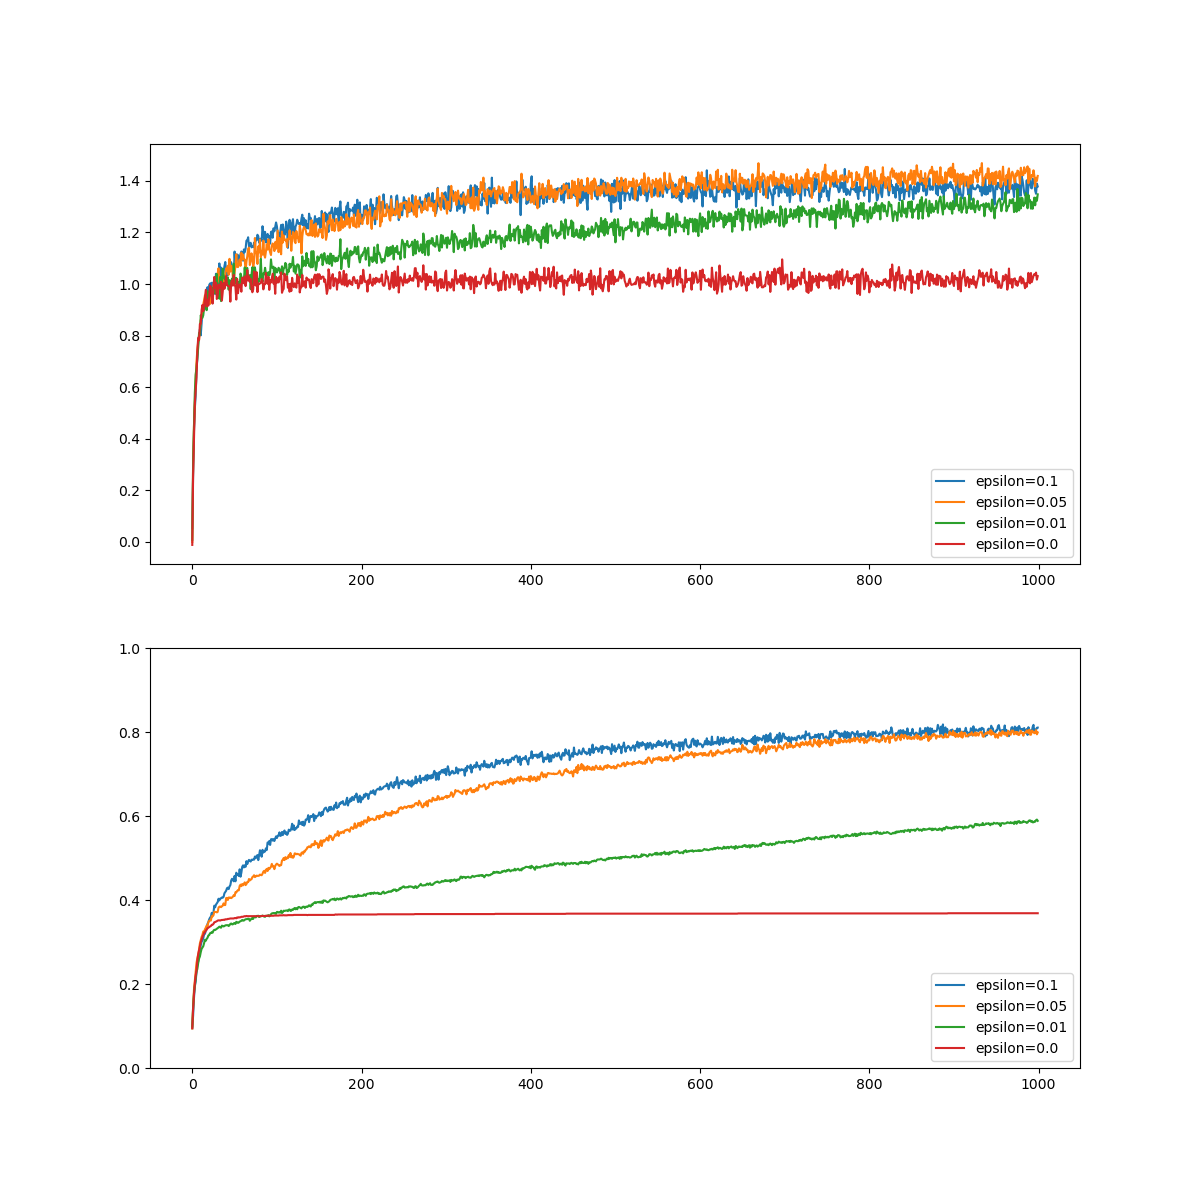
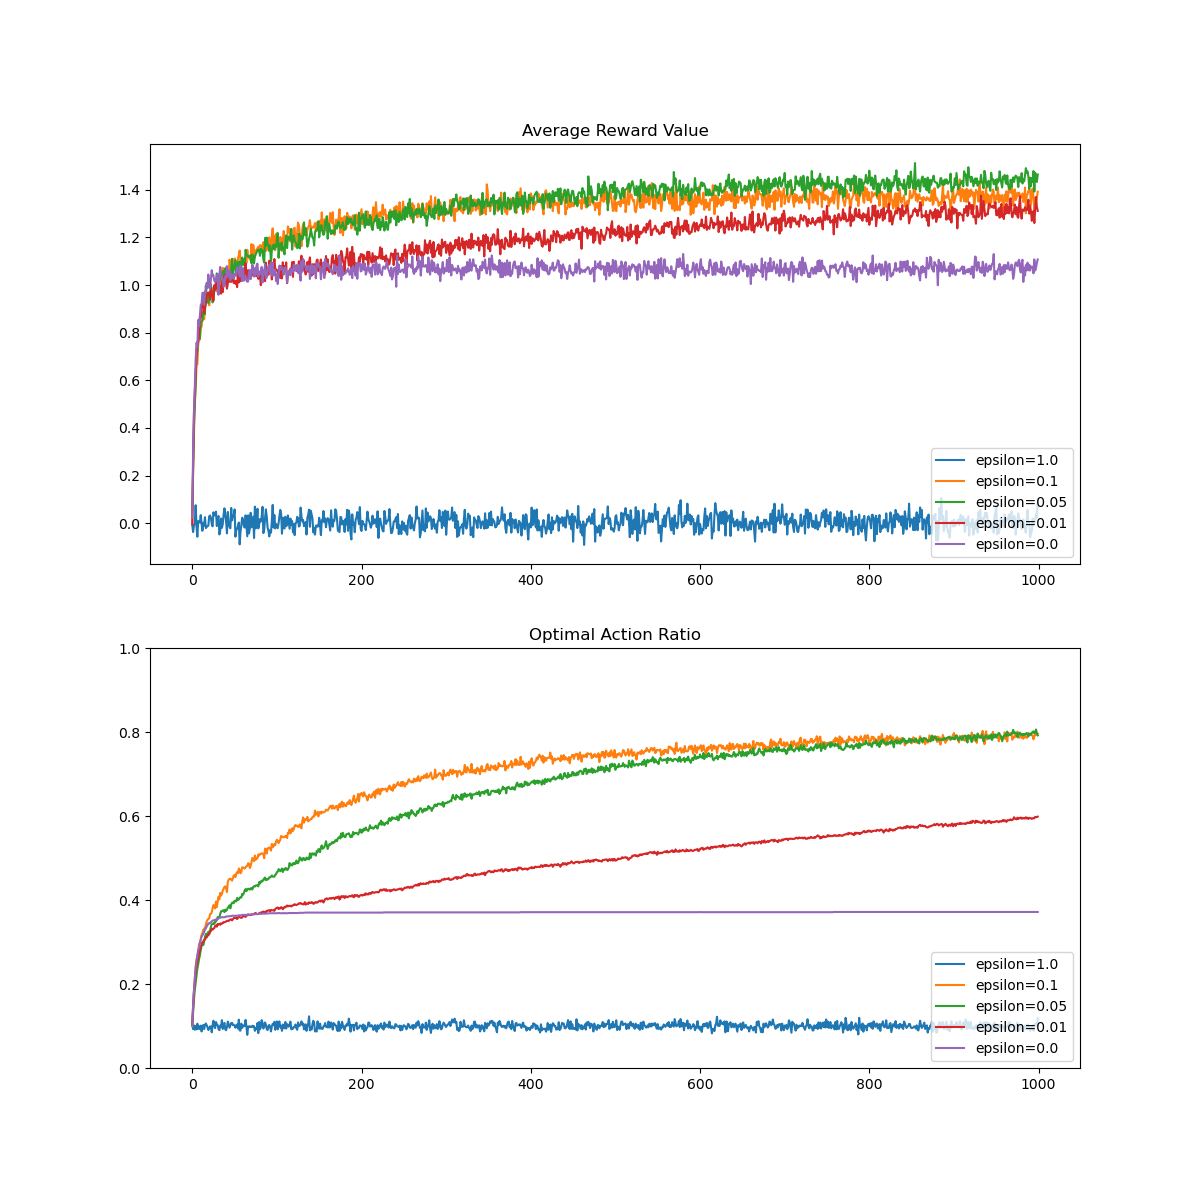
Add new images and non-stationary, optistic initialization implementation

diff --git a/projects/rl-an-intro/ch2/k-armed-testbed-non-stationary-with-optimistic-initialization.py b/projects/rl-an-intro/ch2/k-armed-testbed-non-stationary-with-optimistic-initialization.py
@@ -7,10 +7,12 @@ import numpy as np
 
 class Arm:
 
-    def __init__(self, mean, std, num_steps):
+    def __init__(self, mean, std, num_steps, initial_value = None):
         self.mean = mean
         self.std = std
         self.data = np.random.normal(mean, std, num_steps)
+        if initial_value is not None:
+            self.data[0] = initial_value
 
     def __str__(self):
         return f'{self.mean=}, {self.std=}, data_mean={np.average(self.data)}, data_std={np.std(self.data)}'
@@ -27,6 +29,8 @@ def main(args) -> None:
     num_steps = args.num_steps
     num_runs = args.num_runs
     epsilons = args.epsilons
+    initial_value = args.initial_value
+    alpha = args.alpha
     output_filename = args.output_filename
 
     data = {}
@@ -37,10 +41,6 @@ def main(args) -> None:
         o_avg = np.zeros(num_steps, dtype=float)
         r_avg = np.zeros(num_steps, dtype=float)
 
-        # track this over each run
-        q_run = np.zeros(num_arms, dtype=float)
-        n_run = np.zeros(num_arms, dtype=int)
-
         # save the averages for each epsilon
         data[epsilon] = {'r': r_avg, 'o': o_avg}
 
@@ -48,11 +48,18 @@ def main(args) -> None:
 
             print(f"Starting {run=}...")
 
+            # track this over each run
+            if initial_value is not None:
+                q_run = np.array([initial_value] * num_arms, dtype=float)
+            else:
+                q_run = np.zeros(num_arms, dtype=float)
+            n_run = np.zeros(num_arms, dtype=int)
+
             # create the arms
             arm_means = np.random.normal(mean, std, num_arms)
             arms = []
             for arm_mean in arm_means:
-                arm = Arm(arm_mean, std, num_steps)
+                arm = Arm(arm_mean, std, num_steps, initial_value)
                 arms.append(arm)
 
             # track the optimal action
@@ -61,8 +68,11 @@ def main(args) -> None:
             for step in range(num_steps):
 
                 # select the arm, possibly at random based on epsilon
-                if np.random.uniform(0, 1) > epsilon:
-                    action = np.random.choice(np.flatnonzero(q_run == q_run.max()))
+                e = np.random.uniform(0, 1)
+                if e > epsilon:
+                    q_run_max = q_run.max()
+                    choice = np.flatnonzero(q_run == q_run_max)
+                    action = np.random.choice(choice)
                 else:
                     action = np.random.randint(0, num_arms)
 
@@ -74,11 +84,7 @@ def main(args) -> None:
                 r_avg[step] = r_avg[step] + (r - r_avg[step]) / run
 
                 n_run[action] += 1
-                q_run[action] = q_run[action] + (r - q_run[action]) / n_run[action]
-
-            # re-initialize to zeros
-            q_run.fill(0)
-            n_run.fill(0)
+                q_run[action] = q_run[action] + alpha * (r - q_run[action])
 
     render_figure(data, output_filename)
 
@@ -114,6 +120,8 @@ if __name__ == '__main__':
     parser.add_argument('--num_steps', type=int, default=1000)
     parser.add_argument('--num_runs', type=int, default=2000)
     parser.add_argument('--epsilons', nargs='*', default=[1.0, .1, .05, .01, 0.0])
-    parser.add_argument('--output_filename', type=str, default='k-armed-testbed.png')
+    parser.add_argument('--initial_value', type=float, default=5)
+    parser.add_argument('--alpha', type=float, default=.1)
+    parser.add_argument('--output_filename', type=str, default='k-armed-testbed-non-stat-1000-500-5.png')
 
     main(args=parser.parse_args())
